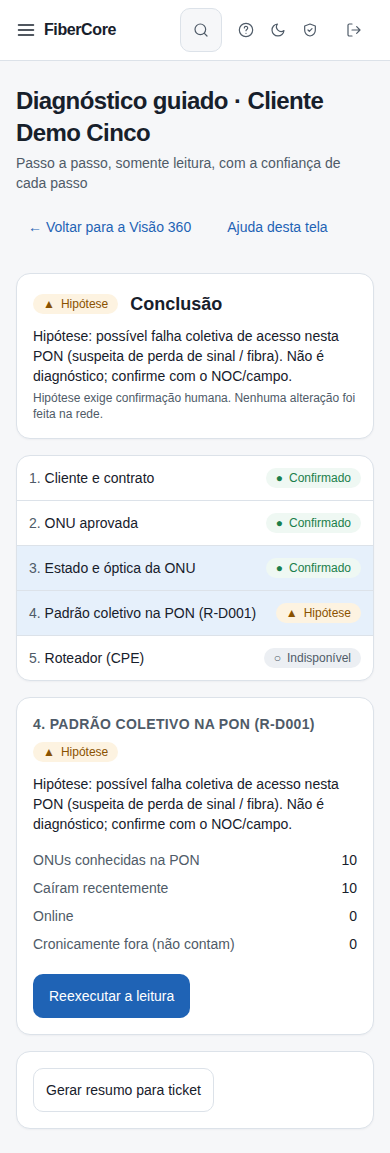
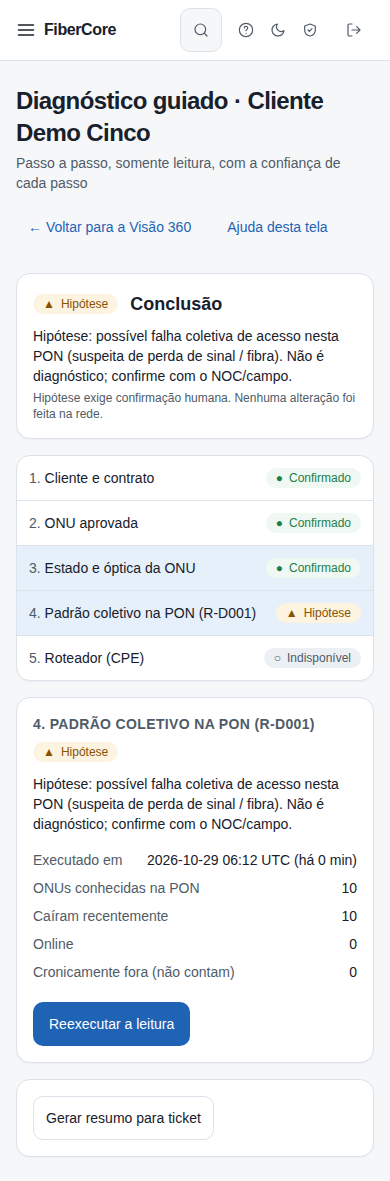
fix(web): execução do diagnóstico só vale se for da PON atual da ONU e recente (Codex PR 40, round 3)
- descarta (com aviso) execução de outra PON ou com mais de 15 min; mostra quando foi executada
- E2E 48 passed

Claude-Session: https://claude.ai/code/session_01G65B8a86N96ZoCrjd2Ad9b

diff --git a/apps/web/src/lib/troubleshoot.ts b/apps/web/src/lib/troubleshoot.ts
@@ -15,7 +15,9 @@ const stateText = (status: string) => ({ up: "online", down: "fora do ar", unrec
 const trustOf = (p: Provenance | null): Trust => (p && p.quality === "fresh" ? "confirmado" : "indisponivel");
 const why = (p: Provenance | null) => (!p ? "sem coleta" : p.quality === "stale" ? "dado defasado" : p.quality === "conflict" ? "fontes divergentes" : p.quality === "unknown" ? "sem coleta" : "");
 
-export type RunState = { finding: DiagnosticFinding | null; denied: boolean; failed: boolean };
+export type RunState = { finding: DiagnosticFinding | null; denied: boolean; failed: boolean; ranAt: string | null; discarded: "old" | "other_pon" | null };
+/** Uma execução é um registro histórico: só vale como conclusão se for da PON atual da ONU e recente (mesma janela de frescor da regra). */
+export const RUN_FRESH_MINUTES = 15;
 
 /** Os 5 passos do diagnóstico guiado, só com o que a API já devolveu. Sem score, sem valor inventado. */
 export function buildSteps(ctx: CustomerContext, onu: CustomerOnu | undefined, run: RunState, customerId: string, canRunHint: boolean): Step[] {
@@ -38,10 +40,10 @@ export function buildSteps(ctx: CustomerContext, onu: CustomerOnu | undefined, r
   const f = run.finding;
   const s4: Step = { id: 4, title: "Padrão coletivo na PON (R-D001)", provenance: null,
     trust: !f ? "indisponivel" : f.status === "inferred" ? "hipotese" : f.status === "observed" ? "confirmado" : "indisponivel",
-    summary: run.denied ? "Seu papel não permite executar o diagnóstico." : run.failed ? "Não foi possível executar o diagnóstico agora; nada é afirmado." : !f ? "Ainda não executado. A leitura não altera nada na rede."
+    summary: run.denied ? "Seu papel não permite executar o diagnóstico." : run.failed ? "Não foi possível executar o diagnóstico agora; nada é afirmado." : !f ? (run.discarded === "old" ? "A última execução é antiga e foi descartada: ela não representa o estado atual. Execute de novo." : run.discarded === "other_pon" ? "A execução anterior era de outra PON e foi descartada. Execute de novo." : "Ainda não executado. A leitura não altera nada na rede.")
       : f.status === "inferred" ? `Hipótese: possível falha coletiva de acesso nesta PON (${cause[f.suspected_cause ?? "unknown"]}). Não é diagnóstico; confirme com o NOC/campo.`
       : f.status === "observed" ? "As quedas recentes não atingem o padrão de falha coletiva. Isso não prova que a PON esteja saudável." : `Sem conclusão: ${f.reason ?? "dado indisponível"}.`,
-    facts: f ? [["ONUs conhecidas na PON", String(f.evidence.onus_observed)], ["Caíram recentemente", String(f.evidence.onus_down_recent)], ["Online", String(f.evidence.online)], ["Cronicamente fora (não contam)", String(f.evidence.chronic_offline)]] : [],
+    facts: f ? [...(run.ranAt ? [["Executado em", run.ranAt] as [string, string]] : []), ["ONUs conhecidas na PON", String(f.evidence.onus_observed)], ["Caíram recentemente", String(f.evidence.onus_down_recent)], ["Online", String(f.evidence.online)], ["Cronicamente fora (não contam)", String(f.evidence.chronic_offline)]] : [],
     action: run.denied || !canRunHint ? null : { kind: "run", label: f ? "Reexecutar a leitura" : "Executar diagnóstico (somente leitura)" } };
   const k = onu.cpe;
   const s5: Step = { id: 5, title: "Roteador (CPE)", provenance: k.provenance,

diff --git a/apps/web/src/app/assinantes/diagnostico/[id]/page.tsx b/apps/web/src/app/assinantes/diagnostico/[id]/page.tsx
@@ -5,7 +5,7 @@ import { SourceChip } from "@/components/SourceChip";
 import { EmptyState, ErrorState, PageHeader } from "@/components/ui";
 import { apiSafe } from "@/lib/api";
 import { diagnosticsOn } from "@/lib/features";
-import { buildSteps, conclusion, TRUST_LABEL, ticketSummary, type Trust } from "@/lib/troubleshoot";
+import { buildSteps, conclusion, RUN_FRESH_MINUTES, TRUST_LABEL, ticketSummary, type Trust } from "@/lib/troubleshoot";
 import type { CustomerContext, DiagnosticRun } from "@/lib/types";
 
 const UUID = /^[0-9a-f]{8}-[0-9a-f]{4}-[0-9a-f]{4}-[0-9a-f]{4}-[0-9a-f]{12}$/i;
@@ -29,9 +29,14 @@ export default async function GuidedTroubleshooting({ params, searchParams }: { 
   const onu = ctx.onus.find((x) => x.id === q.onu) ?? ctx.onus[0];
   // a execução só vale para ESTA ONU: um link antigo ou de outra ONU é ignorado (nunca mostra a PON errada)
   const run = onu && q.run && UUID.test(q.run) ? await apiSafe<DiagnosticRun>(`/v1/diagnostics/runs/${q.run}`) : null;
-  const valid = run?.data && run.data.scope.onu_id === onu?.id && run.data.rule_id === "R-D001" ? run.data : null;
+  const mine = run?.data && run.data.scope.onu_id === onu?.id && run.data.rule_id === "R-D001" ? run.data : null;
+  const ageMin = mine ? (Date.now() - Date.parse(mine.created_at)) / 60000 : 0;
+  const samePon = !!mine && mine.findings[0]?.evidence.pon_path === onu?.pon_path;
+  const discarded = !mine ? null : !samePon ? "other_pon" : ageMin > RUN_FRESH_MINUTES ? "old" : null;
+  const valid = mine && !discarded ? mine : null;
   const denied = q.erro === "403";
-  const steps = buildSteps(ctx, onu, { finding: valid?.findings[0] ?? null, denied, failed: !!q.erro && !denied }, id, true);
+  const steps = buildSteps(ctx, onu, { finding: valid?.findings[0] ?? null, denied, failed: !!q.erro && !denied, discarded,
+    ranAt: valid ? `${new Date(valid.created_at).toISOString().replace("T", " ").slice(0, 16)} UTC (há ${Math.max(0, Math.round(ageMin))} min)` : null }, id, true);
   const concl = conclusion(steps);
   const cur = steps.find((s) => String(s.id) === q.passo) ?? steps[valid ? 3 : 0];
   const base = `/assinantes/diagnostico/${id}?${onu ? `onu=${onu.id}&` : ""}${valid ? `run=${valid.run_id}&` : ""}`;
